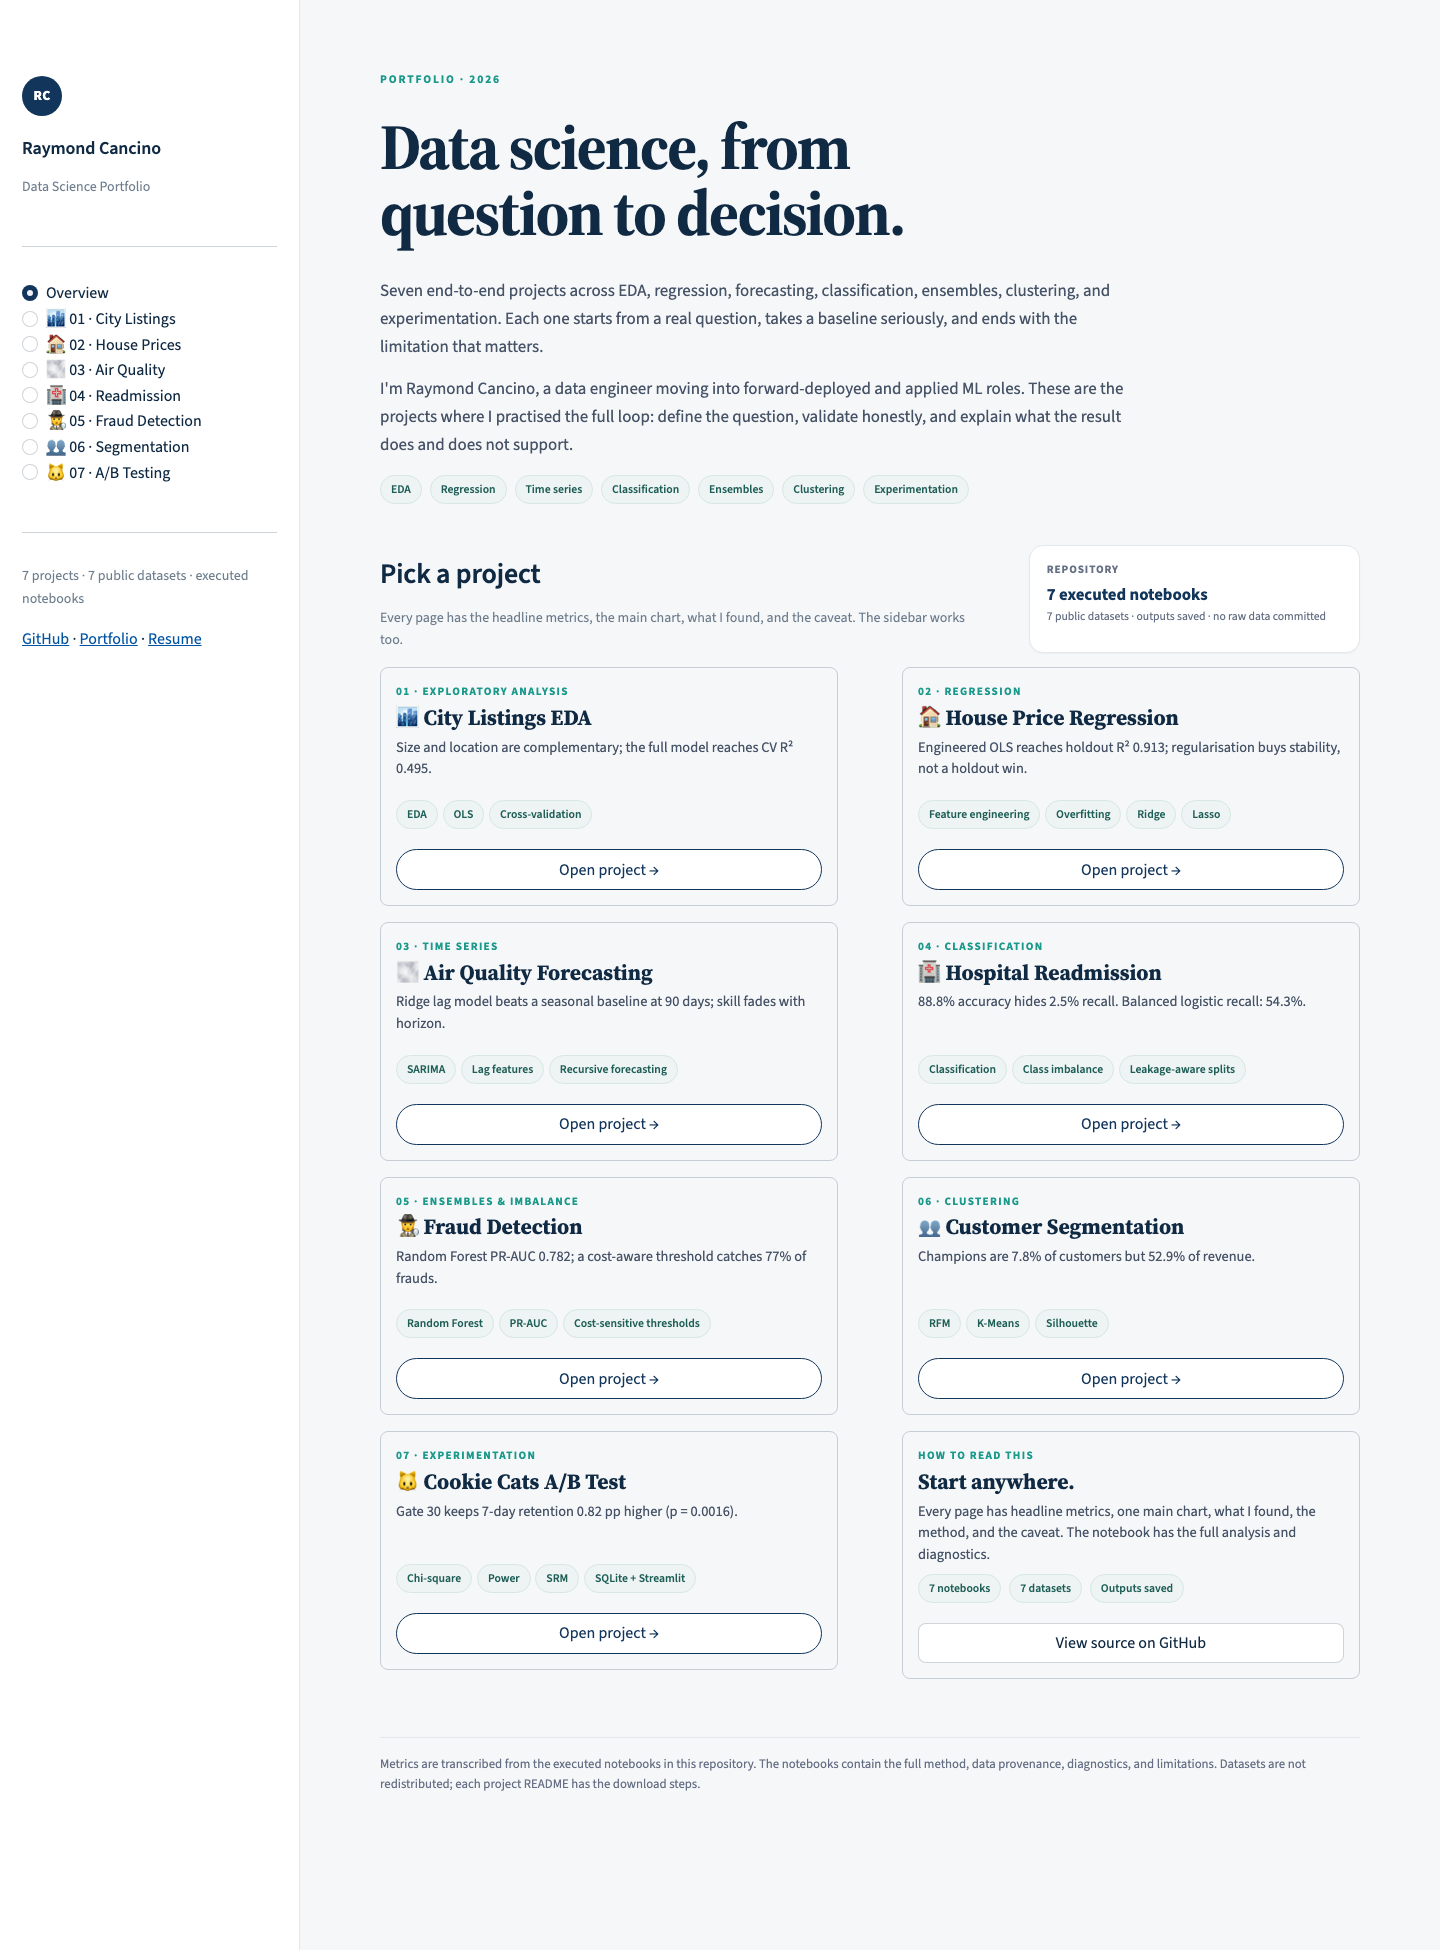
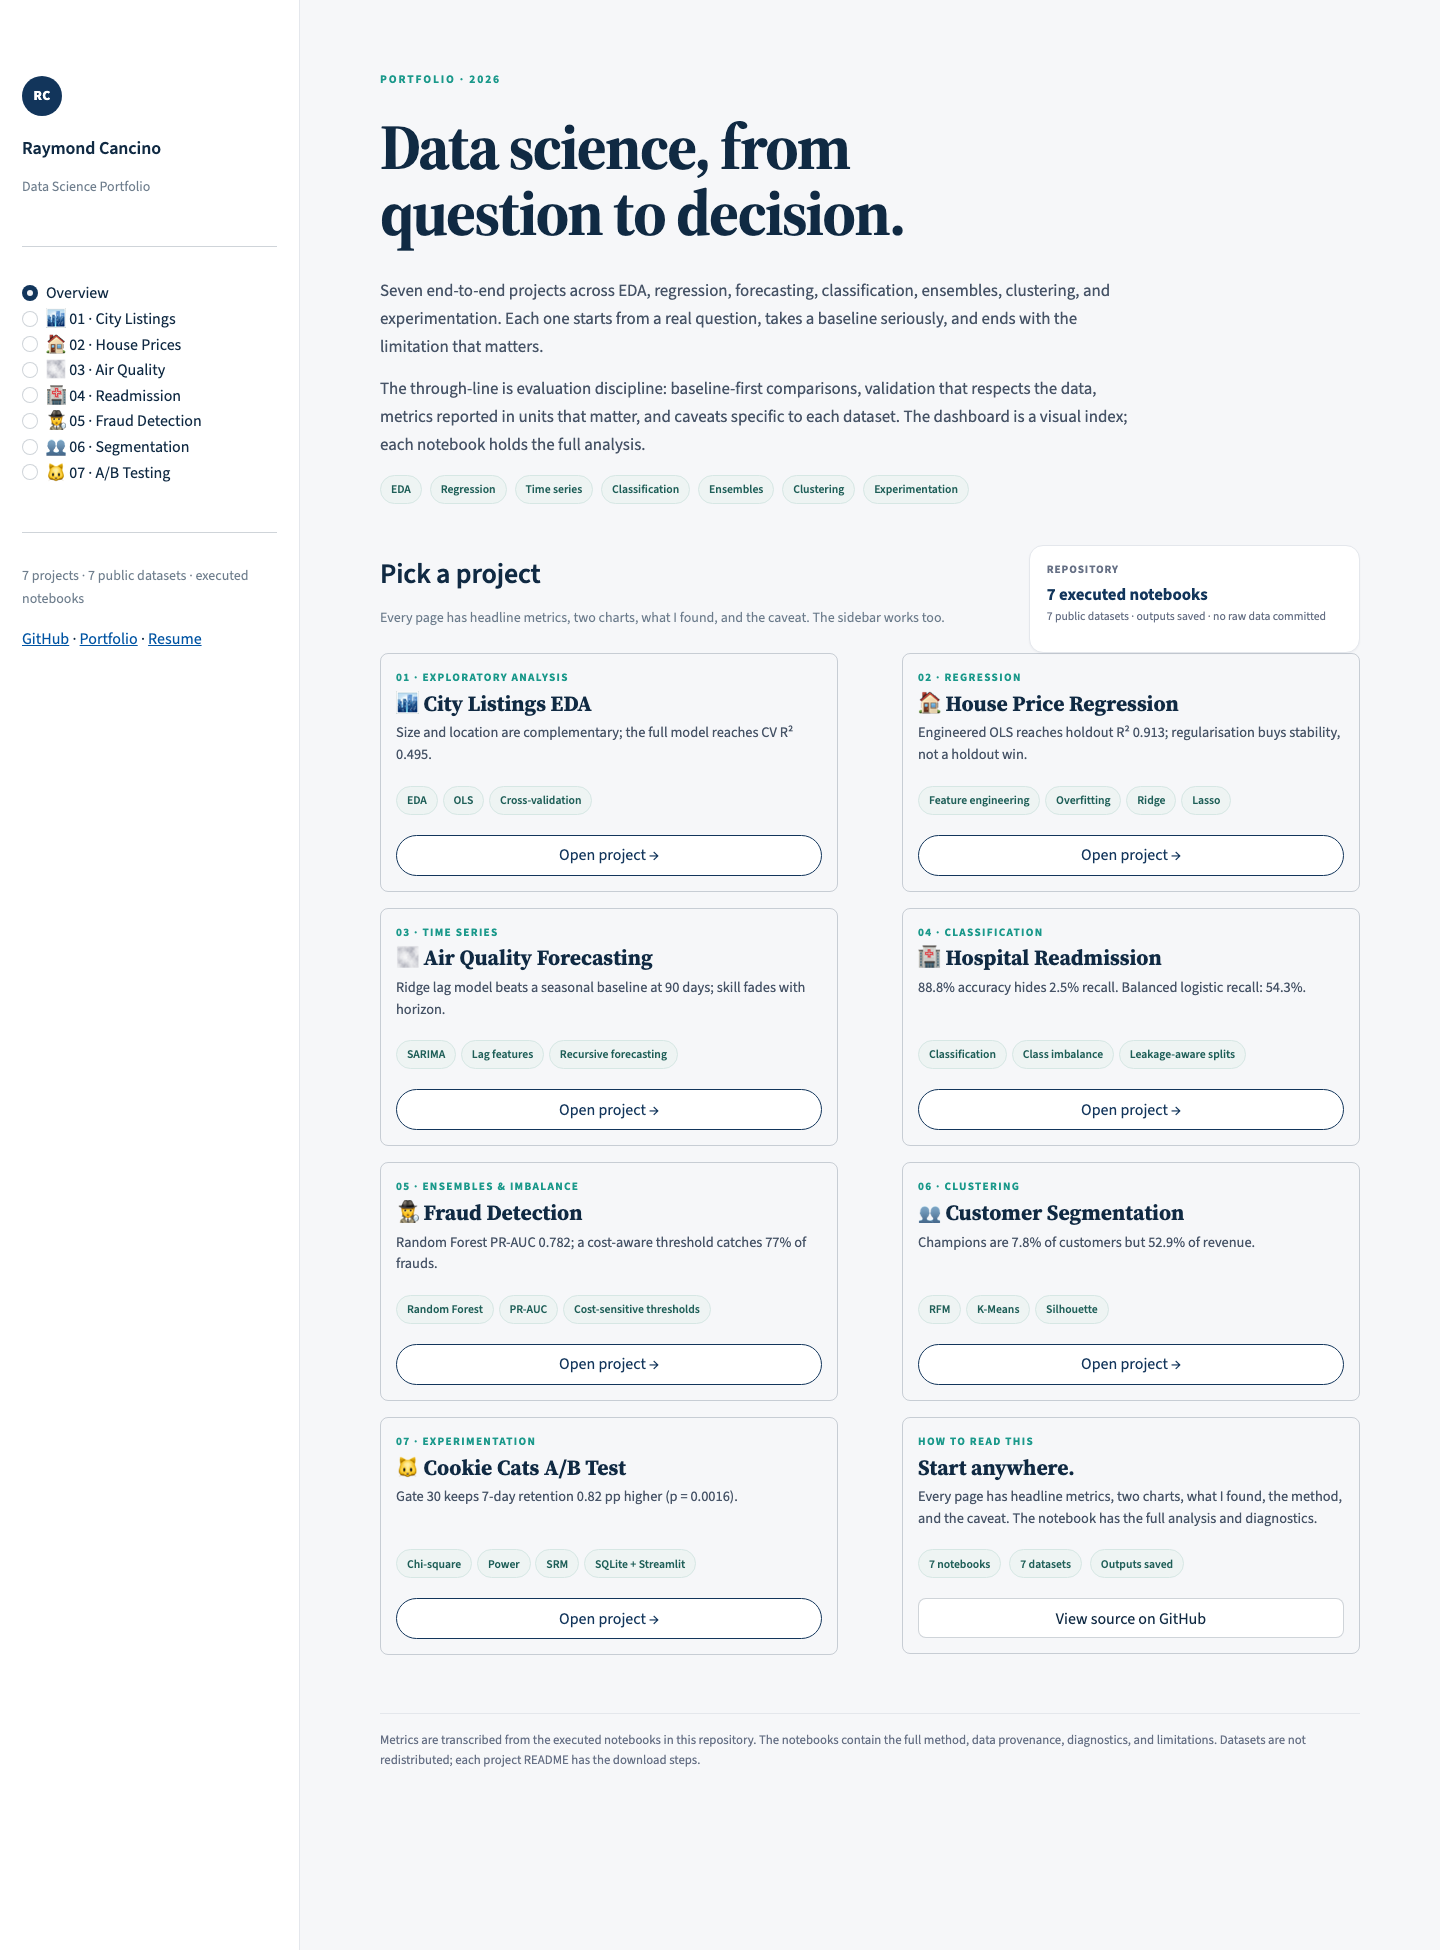
Focus portfolio README and dashboard on the work
- remove role-transition framing and availability language
- lead with the projects, methods, and results
- update dashboard hero copy and screenshot to match

diff --git a/dashboard/app.py b/dashboard/app.py
@@ -1144,9 +1144,9 @@ def render_home() -> None:
             seriously, and ends with the limitation that matters.
           </p>
           <p>
-            I'm Raymond Cancino, a data engineer moving into forward-deployed and applied ML roles.
-            These are the projects where I practised the full loop: define the question, validate
-            honestly, and explain what the result does and does not support.
+            The through-line is evaluation discipline: baseline-first comparisons, validation that
+            respects the data, metrics reported in units that matter, and caveats specific to each
+            dataset. The dashboard is a visual index; each notebook holds the full analysis.
           </p>
           <div class="tag-row">
             <span class="tag">EDA</span>

diff --git a/README.md b/README.md
@@ -6,17 +6,14 @@
 [![LinkedIn](https://img.shields.io/badge/LinkedIn-cancinoraymond-0a66c2)](https://www.linkedin.com/in/cancinoraymond/)
 [![WQU Applied Data Science Lab](https://img.shields.io/badge/WQU-Applied%20Data%20Science%20Lab-ff6600)](https://www.credly.com/badges/c7bfe8cd-3e7e-4c8d-a2c5-c533de00db49)
 
-Hi, I'm [Raymond Cancino](https://cancinoray.netlify.app/): a Data Engineer transitioning into **Forward Deployed Engineering** and **Data Science, Machine Learning, and AI**. Philippines-based.
+**Seven end-to-end data science projects** built across EDA, regression, time series, classification, ensembles, clustering, and experimentation. Each project starts from a real question, establishes a baseline, validates honestly, and ends with a plain-language answer and its limitations.
 
-I help e-commerce and ops teams make sense of data that doesn't agree with itself. Across e-commerce, AdTech, and EdTech I've built pipelines that survive inconsistent schemas and mismatched platforms, then shipped the fix — the mix of client-facing problem-solving and hands-on engineering that FDE work calls for.
+The work is grounded in a data-engineering background: building pipelines, reconciling schemas, and shipping fixes across e-commerce, AdTech, and EdTech. This repository focuses on the layer above that — modelling, evaluation, and communication.
 
-This repo is the evidence that I can take that same discipline into modelling: **7 end-to-end projects** covering EDA, regression, time series, classification, ensembles, clustering, and experimentation. Each one starts from a real question, establishes a baseline, validates honestly, and ends with a plain-language answer and its limitations.
-
-- Portfolio: https://cancinoray.netlify.app/
 - Live dashboard: https://data-science-portfolio-cancinoray.streamlit.app/
+- Portfolio: https://cancinoray.netlify.app/
 - Resume / CV: [view on Google Drive](https://drive.google.com/file/d/10nixZnwbBtAYzB-wXK0ZibS3YzUrPl-D/view)
 - Email: cancinoray@gmail.com · LinkedIn: [/in/cancinoraymond](https://www.linkedin.com/in/cancinoraymond/) · GitHub: [@cancinoray](https://github.com/cancinoray)
-- Open to Data Science, ML/AI, FDE, and Data Engineering roles
 
 **Start here:** [05 fraud detection](./05-ensembles-fraud-detection/) for metric judgement under imbalance, [07 A/B testing](./07-experimentation-ab-testing/) for experiment discipline, and [06 customer segmentation](./06-clustering-customer-segmentation/) for turning clusters into decisions. Every notebook opens with a TL;DR if you want the short version.
 
@@ -50,11 +47,9 @@ metrics render on GitHub without running anything.
 - **Communication over jargon.** Each notebook explains what the metric does and does not imply,
   names the limitations, and translates the result into a decision a non-specialist can act on.
 
-## Background
+## About the work
 
-I completed WorldQuant University's **Applied Data Science Lab** in 2026 ([verify on Credly](https://www.credly.com/badges/c7bfe8cd-3e7e-4c8d-a2c5-c533de00db49)). The programme's academic policy doesn't allow sharing or reusing coursework, so this repo is my from-scratch demonstration of the same workflow: my own questions, code, and writing on public datasets. No coursework assignments, text, code, or proprietary datasets are reused here.
-
-I'm a Mechanical Engineering graduate and former university instructor, comfortable structuring ambiguous problems and explaining results plainly. Next up: deep learning fundamentals and applied LLM/AI projects, building on the modelling and experimentation habits practised here.
+These projects are original work built after completing WorldQuant University's **Applied Data Science Lab** in 2026 ([verify on Credly](https://www.credly.com/badges/c7bfe8cd-3e7e-4c8d-a2c5-c533de00db49)). WQU's academic policy doesn't allow sharing or reusing coursework, so this repo is a from-scratch demonstration of the same workflow: my own questions, code, and writing on public datasets. No coursework assignments, text, code, or proprietary datasets are reused here.
 
 ## What is inside each notebook
 
